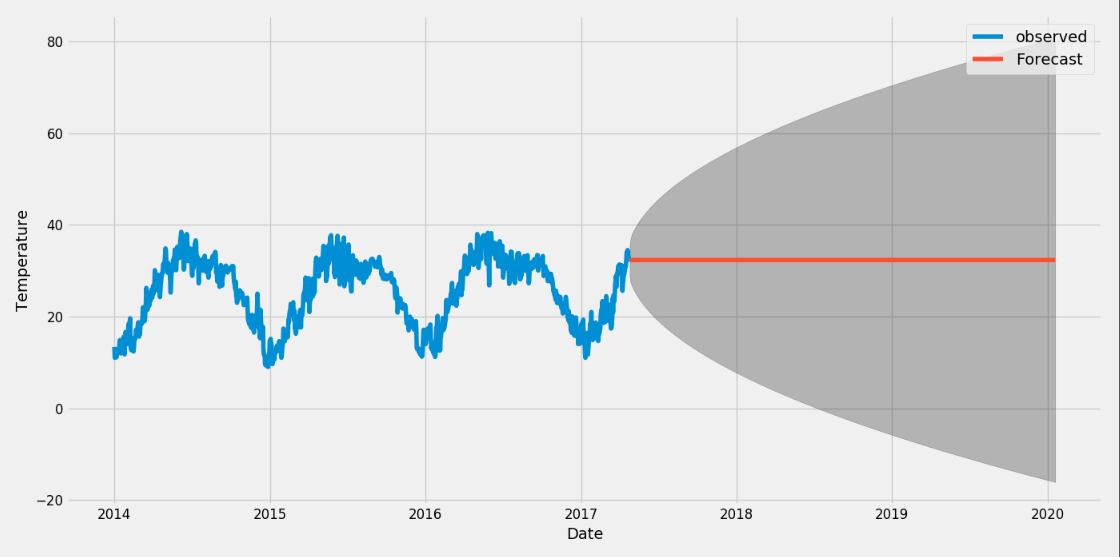
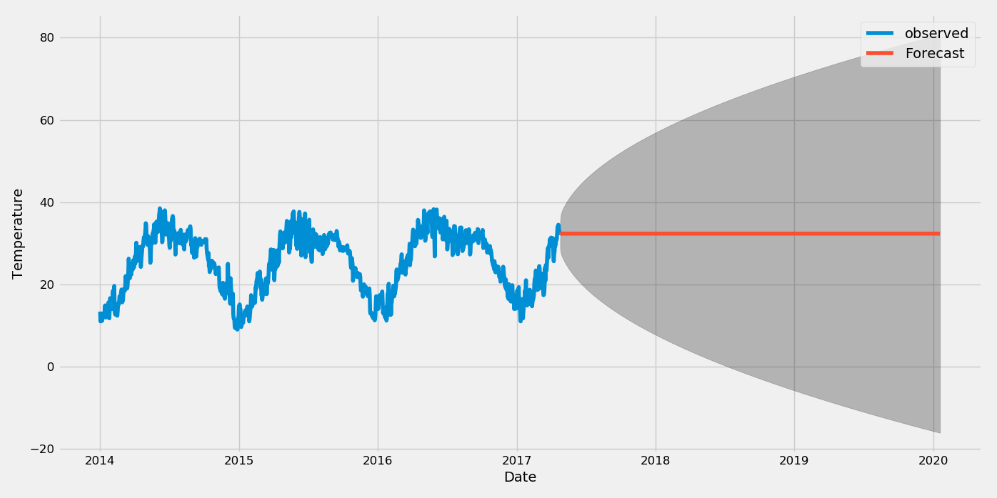
Weekly Time series analysis implemented

diff --git a/WeatherTimeSeriesAnalysis.py b/WeatherTimeSeriesAnalysis.py
@@ -61,6 +61,7 @@ y = df['_tempm'].resample('MS').mean().ffill()                # change argument 
 # print(df.loc['1996-11-08 02:00:00 '])
 # print(y.isnull().sum().sum())
 
+# Finding the optimal parameter(p,d,q) combination by finding the minimum AIC value
 # p = d = q = range(0, 2)
 # pdq = list(itertools.product(p, d, q))
 # seasonal_pdq = [(x[0], x[1], x[2], 12) for x in pdq]
@@ -101,19 +102,19 @@ y = df['_tempm'].resample('MS').mean().ffill()                # change argument 
 #             continue
 
 # Parameter Config for daily predictions
+# mod = sm.tsa.statespace.SARIMAX(y,
+#                                 order=(1, 1, 1),
+#                                 seasonal_order=(0, 0, 1, 12),
+#                                 enforce_stationarity=False,
+#                                 enforce_invertibility=False)
+
+# Parameter Config for monthly/weekly predictions
 mod = sm.tsa.statespace.SARIMAX(y,
-                                order=(1, 1, 1),
-                                seasonal_order=(0, 0, 1, 12),
+                                order=(1, 0, 1),
+                                seasonal_order=(0, 1, 1, 12),
                                 enforce_stationarity=False,
                                 enforce_invertibility=False)
 
-# Parameter Config for monthly predictions
-# mod = sm.tsa.statespace.SARIMAX(y,
-#                                 order=(1, 0, 1),
-#                                 seasonal_order=(0, 1, 1, 12),
-#                                 enforce_stationarity=False,
-#                                 enforce_invertibility=False)
-#
 results = mod.fit()
 
 # print(results.summary().tables[1])
@@ -121,42 +122,45 @@ results = mod.fit()
 # results.plot_diagnostics(figsize=(16, 8))
 # plt.show()
 
-pred = results.get_prediction(start=pd.to_datetime('2017-01-01'), dynamic=False)
-pred_ci = pred.conf_int()
-
-ax = y['2016':].plot(label='observed')
-pred.predicted_mean.plot(ax=ax, label='One-step ahead Forecast', alpha=.7, figsize=(14, 7))
-
-ax.fill_between(pred_ci.index,
-                pred_ci.iloc[:, 0],
-                pred_ci.iloc[:, 1], color='k', alpha=.2)
-
-ax.set_xlabel('Date')
-ax.set_ylabel('Temperature')
-plt.legend()
-
-plt.show()
-
-y_forecasted = pred.predicted_mean
-y_truth = y['2017-01-01':]
-
-mse = ((y_forecasted - y_truth) ** 2).mean()
-print('The Mean Squared Error of our forecasts is {}'.format(round(mse, 2)))
-
-print('The Root Mean Squared Error of our forecasts is {}'.format(round(np.sqrt(mse), 2)))
-
-# pred_uc = results.get_forecast(steps=100)
-# pred_ci = pred_uc.conf_int()
+# predictions of the model for 2017 against the actual values
+# pred = results.get_prediction(start=pd.to_datetime('2016-01-01'), dynamic=False)
+# pred_ci = pred.conf_int()
 #
-# ax = y['2014':].plot(label='observed', figsize=(14, 7))
-# pred_uc.predicted_mean.plot(ax=ax, label='Forecast')
+# ax = y['2014':].plot(label='observed')
+# pred.predicted_mean.plot(ax=ax, label='One-step ahead Forecast', alpha=.7, figsize=(14, 7))
+#
 # ax.fill_between(pred_ci.index,
 #                 pred_ci.iloc[:, 0],
-#                 pred_ci.iloc[:, 1], color='k', alpha=.25)
+#                 pred_ci.iloc[:, 1], color='k', alpha=.2)
 #
 # ax.set_xlabel('Date')
 # ax.set_ylabel('Temperature')
-#
 # plt.legend()
+#
 # plt.show()
+#
+# y_forecasted = pred.predicted_mean
+# y_truth = y['2016-01-01':]
+#
+# mse = ((y_forecasted - y_truth) ** 2).mean()
+# print('The Mean Squared Error of our forecasts is {}'.format(round(mse, 2)))
+#
+# print('The Root Mean Squared Error of our forecasts is {}'.format(round(np.sqrt(mse), 2)))
+
+
+# Forecast for the future period after April 2017
+pred_uc = results.get_forecast(steps=30)
+pred_ci = pred_uc.conf_int()
+
+ax = y['2014':].plot(label='observed', figsize=(14, 7))
+pred_uc.predicted_mean.plot(ax=ax, label='Forecast')
+ax.fill_between(pred_ci.index,
+                pred_ci.iloc[:, 0],
+                pred_ci.iloc[:, 1], color='k', alpha=.25)
+
+ax.set_xlabel('Date')
+ax.set_ylabel('Temperature')
+
+plt.legend()
+plt.show()
 
